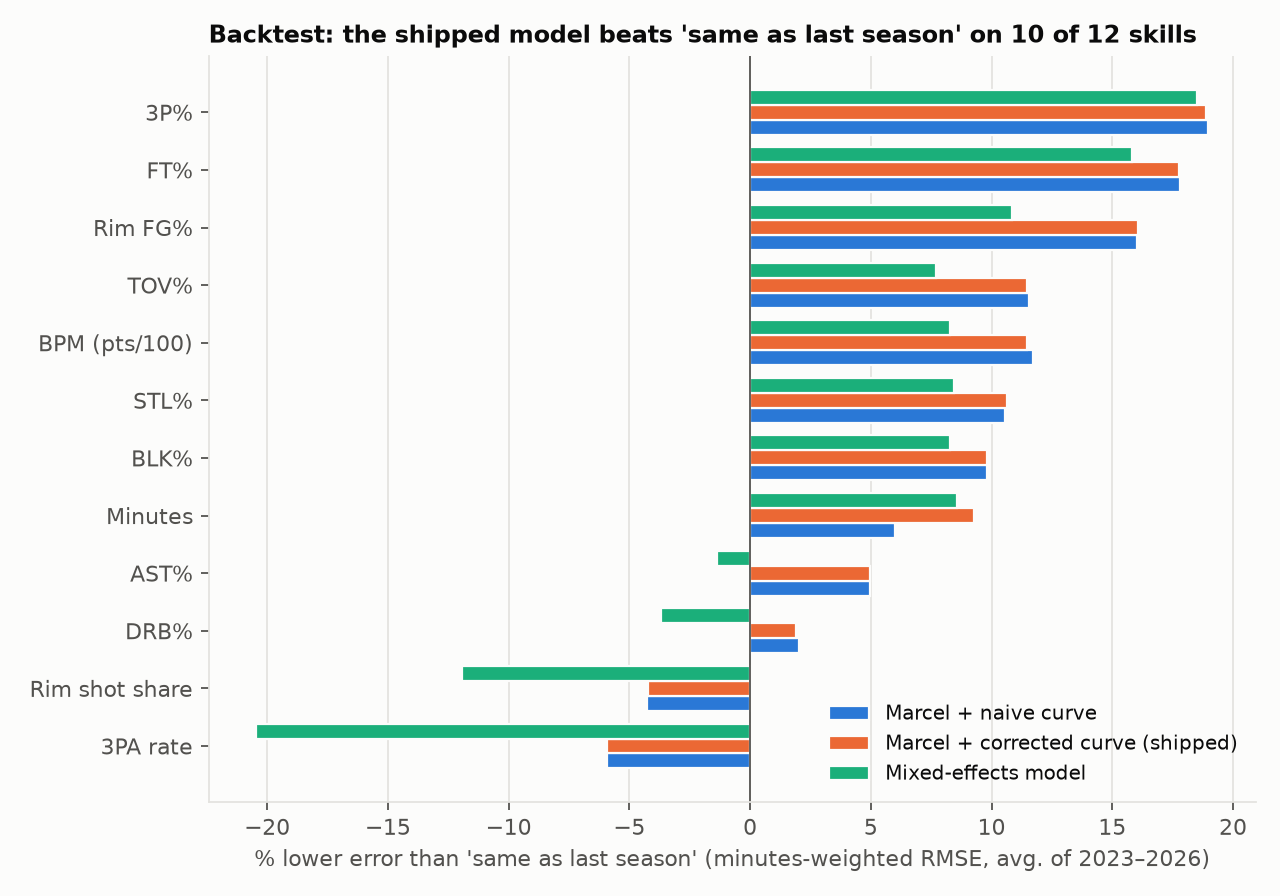
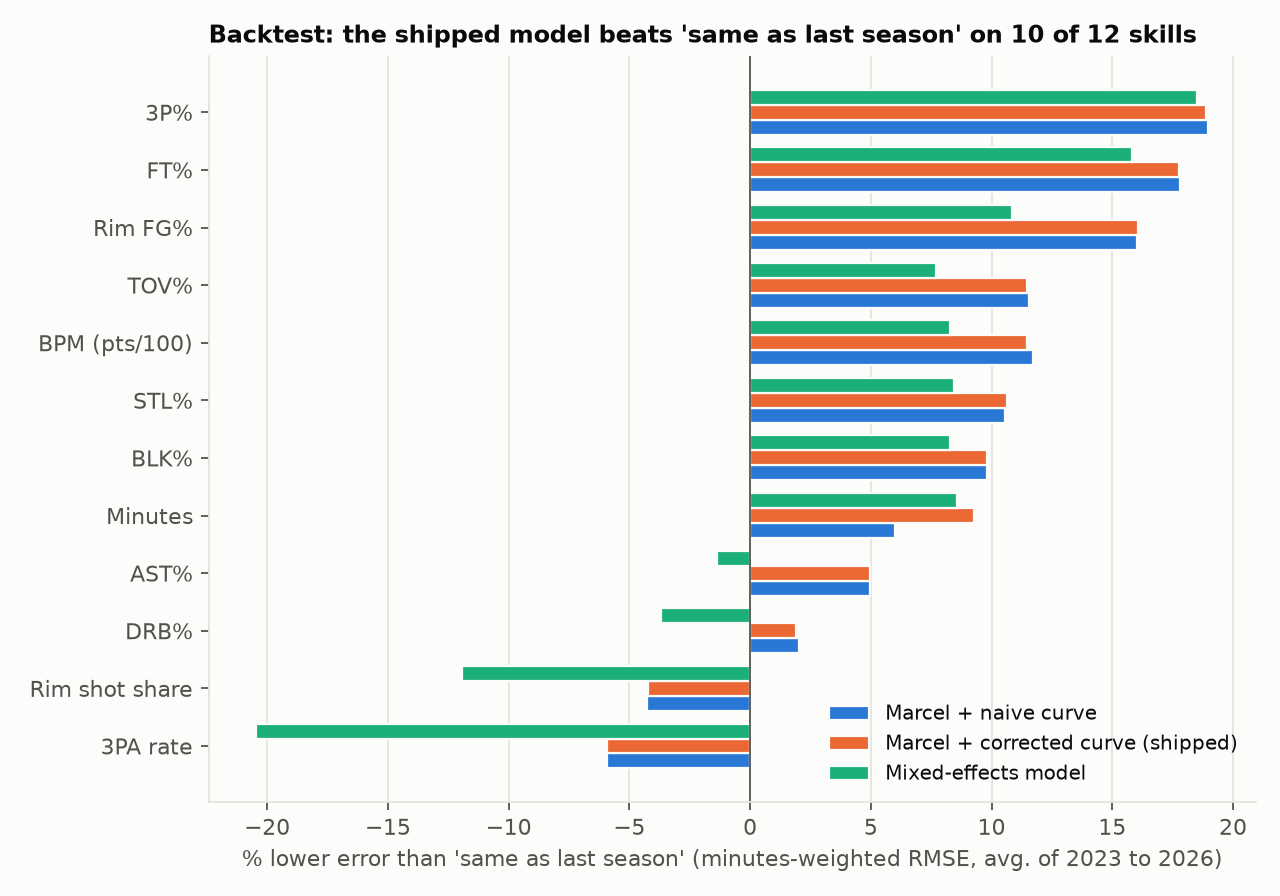
Rewrite README and memo

Changed region(s): [[0.1875, 0.9375, 0.9688, 0.9688]]

diff --git a/charts.py b/charts.py
@@ -88,7 +88,7 @@ def backtest_chart(scores):
     ax.set_axisbelow(True)
     ax.set_yticks(range(len(g)), [STAT[x] for x in g.index])
     ax.axvline(0, color=INK2, linewidth=0.8)
-    ax.set_xlabel("% lower error than 'same as last season' (minutes-weighted RMSE, avg. of 2023–2026)")
+    ax.set_xlabel("% lower error than 'same as last season' (minutes-weighted RMSE, avg. of 2023 to 2026)")
     wins = int((g["hybrid"] > 0).sum())
     ax.set_title(f"Backtest: the shipped model beats 'same as last season' on {wins} of {len(g)} skills")
     ax.grid(axis="y", visible=False)

diff --git a/README.md b/README.md
@@ -1,32 +1,35 @@
 # How NBA Players Age, and What to Expect in 2026-27
 
-Aging curves for 12 basketball skills over 26 seasons (2000-01 to 2025-26), corrected for survivorship bias, plus 2026-27 projections with 80% intervals that were checked against four seasons of real outcomes.
+I built aging curves for 12 basketball skills across 26 seasons (2000-01 through 2025-26), corrected them for survivorship bias, and used them to project every player's 2026-27 season with 80% intervals. Then I backtested the projections against four seasons that already happened, to see whether any of it actually works.
 
-**Stack:** Python (pandas, statsmodels, scikit-learn) · SQL (DuckDB) · Tableau-ready CSVs · pytest
-**Data:** 12,810 player-seasons from Basketball-Reference, 5.2M shots from NBA shot-chart data
+Stack: Python (pandas, statsmodels, scikit-learn), SQL in DuckDB, pytest, and CSV exports shaped for Tableau.
+Data: 12,810 player-seasons from Basketball-Reference and 5.2M shots from NBA shot-chart data.
 
 ![BPM aging curve: naive vs survivorship-corrected](docs/img/bpm_curve.png)
 
-## Main finding
+## The main finding
 
-The standard way to build an aging curve is the **delta method**: average each player's change from one season to the next at every age. It uses only players who played both seasons, and whether a player gets that next season depends on how well he played this season. So the players who stay in the league are disproportionately coming off good, partly lucky years, and next season they regress. The delta method counts that regression as aging.
+The usual way to build an aging curve is the delta method. You take every player who played two seasons in a row, look at how much he changed, and average those changes at each age. The catch is who gets that second season. A player usually sticks around because he just had a good year, and some of that good year was luck. The next season he drifts back down, and the delta method books that drift as aging.
 
-Reweighting each player by his modeled chance of returning (inverse probability weighting) removes most of that effect. **By age 34 the naive curve shows a −2.8 BPM decline from age 27. The corrected curve shows −1.9.** The naive method overstates late-career decline by about 45%.
+To fix it, I modeled each player's chance of coming back and reweighted the season-to-season changes by the inverse of that probability (inverse probability weighting). By age 34, the naive curve has players down 2.8 BPM from their age-27 level. The corrected curve has them down 1.9. So the standard method overstates late-career decline by about 45%.
 
-## How every skill ages
+## How each skill ages
 
 ![Aging curves for 12 skills](docs/img/skills_small_multiples.png)
 
-- Shooting holds up with age: 3P% and FT% stay near peak into the early 30s.
-- Players take more threes every year of their career (3PA rate climbs steadily) and fewer shots at the rim.
-- Playmaking (AST%), minutes, and overall impact (BPM) peak at 26–27, then decline.
-- Steals and blocks are young players' skills: both peak before 25 and decline from there.
+Shooting holds up well. 3P% and FT% stay close to their peak into the early 30s.
 
-## Does it predict? Backtest, 2022-23 to 2025-26
+Players take more threes every single year of their careers, and fewer shots at the rim.
 
-For each season, every model is fit only on earlier seasons and then scored against what actually happened. The table shows minutes-weighted RMSE averaged over four seasons; **bold** is the best in each row.
+Playmaking (AST%), minutes and overall impact (BPM) peak around 26 or 27 and then decline.
 
-| Skill | Same as last season | Mixed model | Marcel + naive curve | **Marcel + corrected curve** | 80% interval coverage |
+Steals and blocks belong to young players. Both peak before 25 and slide from there.
+
+## Does it predict anything? Backtest, 2022-23 to 2025-26
+
+For each test season, I fit every model only on the seasons before it and then scored it against what really happened. The table is minutes-weighted RMSE averaged over the four seasons, with the best result in each row in bold.
+
+| Skill | Same as last season | Mixed model | Marcel + naive curve | Marcel + corrected curve | 80% interval coverage |
 |---|---|---|---|---|---|
 | BPM | 1.860 | 1.705 | **1.641** | 1.646 | 78% |
 | 3P% | 0.095 | 0.077 | **0.077** | 0.077 | 79% |
@@ -43,53 +46,59 @@ For each season, every model is fit only on earlier seasons and then scored agai
 
 ![Backtest: error reduction vs. persistence](docs/img/backtest.png)
 
-What the backtest shows:
+A few things stood out.
 
-- **The intervals are well calibrated.** The 80% intervals contained the actual outcome 78.5% of the time overall, and between 76% and 81% for every skill.
-- **For one-year forecasts, the correction matters most for minutes.** It cut minutes error from 550 to 531 and made almost no difference for the rate stats. That fits the mechanism: whether a player gets another season depends mostly on his minutes.
-- **The mixed-effects model lost to Marcel** on all 12 skills. A player's random effect averages over his whole career, while Marcel weights recent seasons most heavily. I shipped the simpler model that won.
-- **For shot profile, "same as last season" beats every model** (3PA rate and rim shot share). Shot selection is a stable trait, and pulling it toward the league average only adds error.
+The intervals are honest. The 80% intervals caught the real outcome 78.5% of the time overall, and somewhere between 76% and 81% for every skill.
+
+For a one-year forecast, the survivorship correction mostly matters for minutes. It cut minutes error from 550 to 531 and barely touched the rate stats. That makes sense once you think about it, because whether a player gets another season depends mostly on how much he plays.
+
+The mixed-effects model lost to Marcel on all 12 skills. Its player effect averages over a whole career, while Marcel leans on the most recent seasons, and recent seasons turned out to matter more. So I went with the simpler model.
+
+For shot profile (3PA rate and rim shot share), plain "same as last season" beat every model I tried. Shot selection is a stable habit, and pulling it toward the league average just adds error.
 
 ## Aging risk for 2026-27
 
 ![Largest projected BPM drops, players 31+](docs/img/aging_risk.png)
 
-The full projections for every player and skill are in [`exports/projections_2026_27.csv`](exports/projections_2026_27.csv).
+Projections for every player and every skill are in [`exports/projections_2026_27.csv`](exports/projections_2026_27.csv).
 
-## Method
+## How it works
 
-1. **Data layer (SQL).** [`sql/`](sql) turns raw Basketball-Reference tables and shot logs into a player-season panel.
-   - For players traded mid-season, only the combined `2TM`/`3TM` row is kept.
-   - Basketball-Reference player IDs are matched to NBA IDs by normalized name, covering 99.98% of minutes, with [9 manual overrides](data/manual/id_overrides.csv) for nicknames.
-   - The 12 stats are unpivoted into long format, and season-to-season transitions are built with `LEAD()` window functions.
-2. **Method A, naive curve.** Weighted mean change at each age, cumulatively summed and anchored at age 27.
-3. **Method B, corrected curve.** A logistic regression predicts `P(return next season | age, stat, minutes)`, and each transition is reweighted by `1 / P`.
-4. **Method C, mixed-effects model.** `stat ~ spline(age) + (1 + age | player)`, fit with statsmodels. This is the comparison model.
-5. **Shipped model.** Marcel (a weighted 5/4/3 average of the last three seasons, pulled toward the league average) plus curve B's age adjustment. The 80% intervals come from the model's past backtest errors, calculated separately for low-, mid- and high-minute players.
-6. **No leakage.** A fold that projects season T may only use transitions whose *second* season is before T. A transition out of T−1 would reveal who played in T.
+1. Data layer in SQL. The files in [`sql/`](sql) turn the raw Basketball-Reference tables and shot logs into one player-season panel.
+   - Players traded mid-season keep only their combined `2TM`/`3TM` row.
+   - Basketball-Reference IDs get matched to NBA IDs by normalized name. That covers 99.98% of minutes for players with 250+ minutes, plus [9 manual overrides](data/manual/id_overrides.csv) for nicknames the name match misses.
+   - The 12 stats get unpivoted into long format, and season-to-season transitions come from `LEAD()` window functions.
+2. Method A, the naive curve: the weighted average change at each age, summed up and anchored at 27.
+3. Method B, the corrected curve: a logistic regression estimates `P(return next season | age, stat, minutes)`, and each transition gets weighted by `1 / P`.
+4. Method C, a mixed-effects model (`stat ~ spline(age) + (1 + age | player)` in statsmodels), mostly there as a comparison.
+5. The model I actually use: Marcel (a 5/4/3 weighted average of the last three seasons, pulled toward league average) plus the age adjustment from curve B. The 80% intervals come from the model's own past backtest errors, computed separately for low-, mid- and high-minute players.
+6. No leakage. When a fold projects season T, it can only use transitions whose second season is before T, since a transition out of T-1 would give away who played in T.
 
-Checks: [`test_pipeline.py`](test_pipeline.py) (10 data checks) and [`test_models.py`](test_models.py) (7 model checks). The model checks use simulated players with a known aging curve and deliberately built-in survivorship, and confirm the code recovers that curve.
+The checks live in [`test_pipeline.py`](test_pipeline.py) (10 data checks) and [`test_models.py`](test_models.py) (7 model checks). The model checks build fake players with an aging curve I chose and survivorship baked in on purpose, then make sure the code gets that curve back.
 
 ## Limitations
 
-- IPW only corrects for selection on things we observe (age, the stat, minutes). A decline nobody measured, such as an unreported injury, isn't captured.
-- BPM is a box-score estimate of impact, not a plus-minus measure like RAPM.
-- A player who skips a season (injury, playing overseas) counts as not returning.
-- The survivorship correction reshapes the curve much more than it changes one-year forecasts. Its real value is in multi-year questions, such as how a 30-year-old will look at 34.
+IPW can only correct for things I can see: age, the stat itself, and minutes. If a player declines for a reason nobody measured, like an injury nobody reported, the correction misses it.
 
-## Run it (Python 3.12)
+BPM is a box-score estimate of impact. It isn't a plus-minus based measure like RAPM.
+
+A player who skips a season (injury, playing overseas) counts as not coming back.
+
+The correction changes the shape of the curve a lot more than it changes one-year forecasts. Where it really pays off is multi-year questions, like what a 30-year-old will look like at 34.
+
+## Running it (Python 3.12)
 
 ```bash
 python -m venv .venv && .venv/bin/pip install -r requirements.txt
-.venv/bin/python download.py        # ~10 min, resumable; 55 MB into data/raw/
+.venv/bin/python download.py        # about 10 min, resumable; 55 MB into data/raw/
 .venv/bin/python run_sql.py         # builds nba.duckdb
 .venv/bin/python -m pytest          # 17 checks
-.venv/bin/python export.py          # ~6 min; writes exports/*.csv
+.venv/bin/python export.py          # about 6 min; writes exports/*.csv
 .venv/bin/python charts.py          # writes docs/img/*.png
 ```
 
-`exports/` holds three CSVs shaped for Tableau: `aging_curves.csv`, `projections_2026_27.csv` and `backtest.csv`. A non-technical summary is in [`memo.md`](memo.md).
+`exports/` has three CSVs set up for Tableau: `aging_curves.csv`, `projections_2026_27.csv` and `backtest.csv`. There's a shorter, non-technical summary in [`memo.md`](memo.md).
 
-**Next steps:** a contract/salary layer, a weighted refit in R's `lme4`, and a shot-quality (xFG%) component.
+Things I'd add next: contract and salary data, a weighted refit in R's `lme4`, and a shot-quality (xFG%) piece.
 
-Data: [Basketball-Reference](https://www.basketball-reference.com), [shufinskiy/nba_data](https://github.com/shufinskiy/nba_data).
+Data comes from [Basketball-Reference](https://www.basketball-reference.com) and [shufinskiy/nba_data](https://github.com/shufinskiy/nba_data).

diff --git a/memo.md b/memo.md
@@ -1,49 +1,57 @@
-# Memo: How players age, and who is most at risk in 2026-27
+# Memo: how players age, and who's most at risk in 2026-27
 
-**Question.** How much does a player's performance change as he ages, skill by skill, and what should we expect from each player next season?
+The question: how much does a player change as he gets older, skill by skill, and what should we expect from each player next season?
 
 ## 1. The usual aging curve overstates decline
 
-The common method compares each player's season to his next season and averages those changes by age. Its blind spot: a player only produces a "next season" if he stays in the league, and staying depends on how well he played this year. The players still around at 33 are disproportionately coming off good, partly lucky seasons. Some of that luck wears off the next year, and the common method counts it as aging.
+The common method compares each player's season to his next one and averages those changes by age. The problem is that a player only has a "next season" if he stays in the league, and whether he stays depends on how well he just played. So the players still around at 33 are mostly coming off good seasons, and some of those seasons were lucky. The luck wears off the following year, and the common method counts that as aging.
 
-After correcting for who stays and who leaves, **the average decline from age 27 to 34 is 1.9 points of BPM, not the 2.8 the usual method shows.** Late-career decline is real, but about a third smaller than the usual method says.
+Once I corrected for who stays and who leaves, the average drop from age 27 to 34 came out to 1.9 points of BPM instead of the 2.8 the usual method gives. Late-career decline is real. It's just about a third smaller than the usual method says.
 
 ![](docs/img/bpm_curve.png)
 
 ## 2. Skills age differently
 
-- **Shooting holds up.** 3P% and FT% stay near their peak into the early 30s.
-- **Players move away from the basket every year.** They take more threes and fewer shots at the rim throughout their careers.
-- **Athletic skills fade first.** Steals peak around 23, blocks earlier still.
-- **Playmaking, minutes and overall impact peak at 26–27.** From there they decline gradually, and faster after 32.
+Shooting holds up. 3P% and FT% stay near their peak into the early 30s.
 
-Practical read: a 31-year-old shooter keeps his main skill longer than a 31-year-old who relies on rim pressure or defensive activity.
+Players drift away from the basket every year, taking more threes and fewer shots at the rim over their whole careers.
+
+Athletic skills go first. Steals peak around 23, and blocks peak even earlier.
+
+Playmaking, minutes and overall impact peak at 26 or 27. After that they decline slowly, then faster after 32.
+
+In practice, that means a 31-year-old shooter will hold on to his main skill longer than a 31-year-old who depends on getting to the rim or making plays on defense.
 
 ## 3. Aging risk for 2026-27
 
-Among players 31 and older who played at least 1,500 minutes last season, the largest projected BPM drops are Kawhi Leonard (35), Nikola Jokić (31), Andrew Wiggins (31), Tim Hardaway Jr. (34) and Josh Hart (31). Jokić is projected to remain one of the best players in the league. The projected drop is from a very high level, and most of it is an exceptional 2025-26 season regressing toward his multi-year average.
+Among players 31 and older who played at least 1,500 minutes last season, the biggest projected BPM drops belong to Kawhi Leonard (35), Nikola Jokić (31), Andrew Wiggins (31), Tim Hardaway Jr. (34) and Josh Hart (31). Jokić is still projected to be one of the best players in the league. His drop starts from a very high level, and most of it is an exceptional 2025-26 season coming back toward his multi-year average.
 
 ![](docs/img/aging_risk.png)
 
-Each projection comes with an 80% range. A typical range is about ±2 BPM, which is wide. This model is good for ranking risk; it is not a precise forecast for any one player.
+Every projection comes with an 80% range, and a typical range is about plus or minus 2 BPM, which is wide. I'd use this to rank risk, not as a precise forecast for any one player.
 
 ## 4. How much to trust it
 
-I tested the method on four past seasons (2022-23 to 2025-26), each time using only data available before that season:
+I tested the method on four past seasons (2022-23 through 2025-26), each time using only the data that existed before that season.
 
-- It beat "assume he repeats last season" on 10 of 12 skills, with errors 2–19% lower.
-- Its 80% ranges contained the real outcome 78.5% of the time. The uncertainty estimates are honest.
-- A more complex statistical model (mixed effects) did worse on every skill, so I didn't use it.
-- For shot selection (three-point rate, share of shots at the rim), "same as last season" was the best forecast. Players' shot habits barely move from year to year.
+It beat "assume he repeats last season" on 10 of 12 skills, with errors 2 to 19% lower.
+
+Its 80% ranges contained the real outcome 78.5% of the time, so the uncertainty estimates hold up.
+
+A more complex statistical model (mixed effects) did worse on every skill, so I didn't use it.
+
+For shot selection (three-point rate and share of shots at the rim), "same as last season" was the best forecast. Players' shot habits barely change from year to year.
 
 ## 5. Limitations
 
-- The correction accounts for what we can measure: age, performance and minutes. It can't see an unreported injury.
-- BPM is built from box-score stats and misses much of defense.
-- A player who sits out a season is treated as having left the league.
+The correction only accounts for what I can measure: age, performance and minutes. It can't see an injury nobody reported.
 
-## 6. Next steps
+BPM is built from box-score stats and misses a lot of defense.
 
-1. Attach contract data to turn "projected decline" into "projected overpay."
-2. Extend to 2–3-season projections, where the survivorship correction matters most.
+A player who sits out a season gets treated as having left the league.
+
+## 6. What I'd do next
+
+1. Add contract data, so "projected decline" turns into "projected overpay."
+2. Extend the projections to two or three seasons out, where the survivorship correction matters most.
 3. Add a shot-quality model to separate shooting skill from shot selection.
